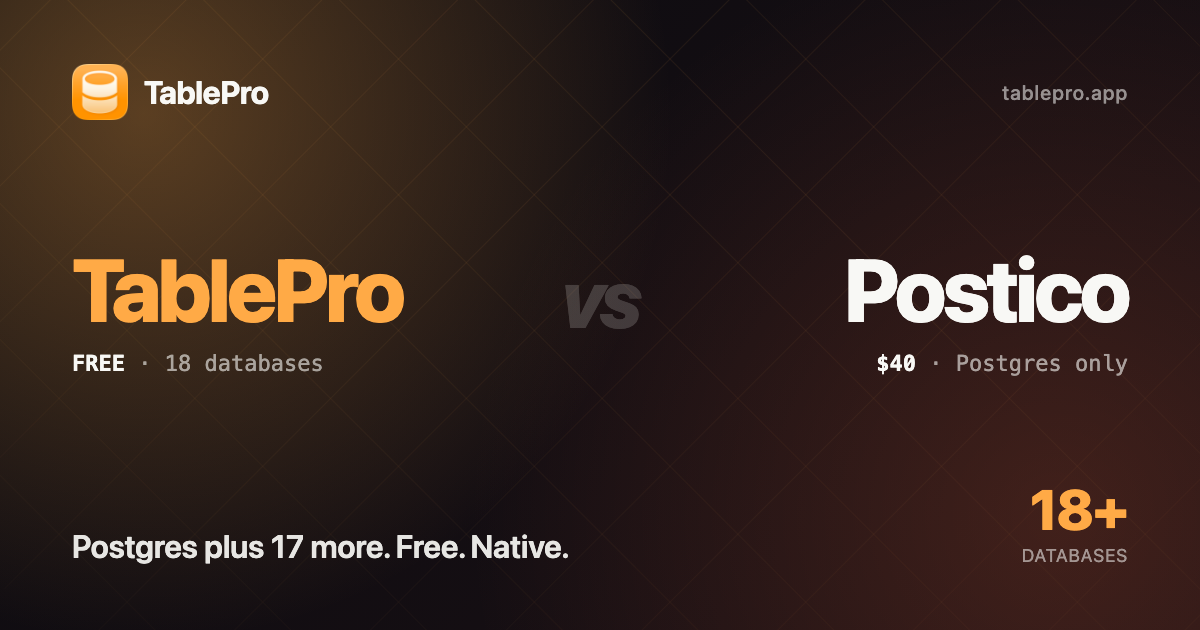
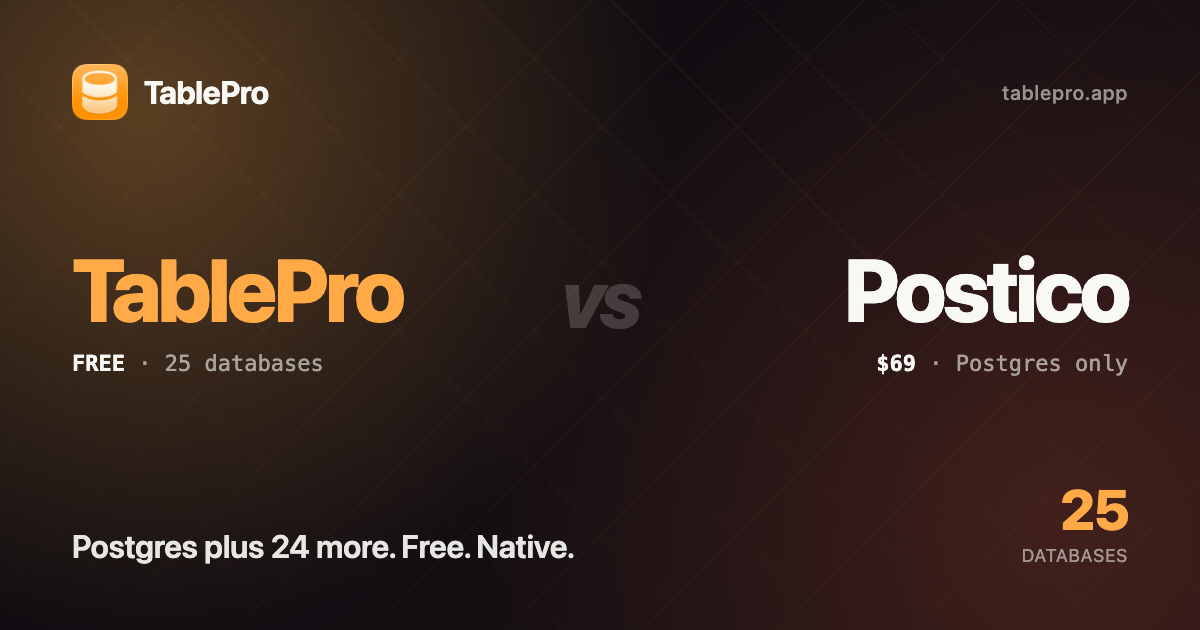
fix(compare): correct four stale counts and four wrong prices (#21)
Every comparison entry was audited against the vendor's own site, with the
JavaScript-rendered pricing pages driven through a real browser rather than
guessed at.

Counts left over from when TablePro shipped 18 databases. Postico promised
"Postgres plus 17 other databases" and named five engines "and 13 more";
HeidiSQL named five "plus 13 more". Both read as 18, on pages whose own
comparison table said 25 two rows below.

    postico.description   five named + 13  ->  + 20
    postico.verdict       Postgres + 17    ->  + 24
    postico.ogPunchline   Postgres + 17    ->  + 24
    heidisql              five named + 13  ->  + 20

Prices that contradicted their own entry. The OG card is generated from its own
fields, so it drifts silently from the page it advertises — and nobody sees an
OG image until it is already being shared.

    postico.ogCompetitorMetaHtml   $40   ->  $69   (entry said $69/$99 throughout)
    datagrip.ogCompetitorMetaHtml  $100  ->  $99   (entry said $99 throughout)

Prices now stale against the vendor, both read off the rendered page:

    datagrip  $9.90/mo        ->  $10.90/mo   jetbrains.com/datagrip/buy
    navicat   $1,299 perpetual -> $1,599      navicat.com/en/store/navicat-premium

Postico's $69 personal (3 devices) and $99 per device commercial were checked
against eggerapps.at and are correct as written. Beekeeper's $108/yr Indie is
correct: their page renders $9, $14 and $18 per month.
[…]

diff --git a/tests/Feature/Seo/StaleClaimsTest.php b/tests/Feature/Seo/StaleClaimsTest.php
@@ -219,3 +219,89 @@ it('serves a comparison page for every slug the route accepts, and vice versa', 
 
     expect($routed)->toBe($authored);
 });
+
+it('never implies a database count other than 25', function (): void {
+    /*
+     * Four entries carried counts from the era when TablePro shipped 18 —
+     * Postico promised "Postgres plus 17 other databases" and named five
+     * engines "and 13 more", HeidiSQL the same. Both read as 18, on pages whose
+     * own table said 25 two rows below.
+     *
+     * Relative phrasing is what rots: "plus N more" has to be re-derived every
+     * time the driver count moves, and nobody remembers to. This catches the
+     * ones that no longer add up.
+     */
+    $entries = json_decode(file_get_contents(base_path('resources/data/comparisons.json')), true);
+
+    $offenders = [];
+
+    foreach ($entries as $entry) {
+        array_walk_recursive($entry, function ($value) use (&$offenders, $entry): void {
+            if (! is_string($value)) {
+                return;
+            }
+
+            // "Postgres plus 24 other databases" / "... and 20 more"
+            if (! preg_match('/\b(?:plus|and)\s+(\d{1,3})\s+(?:other|more)\b/i', $value, $m)) {
+                return;
+            }
+
+            /*
+             * Only the engines named in the same sentence count. Postico's
+             * verdict reads "excellent for Postgres alone. TablePro covers the
+             * same ground for Postgres plus 24 other databases" — counting the
+             * whole string sees Postgres twice and makes 25 look like 26.
+             */
+            $before = substr($value, 0, strpos($value, $m[0]));
+            $sentence = preg_split('/(?<=[.!?])\s+/', $before);
+
+            $named = preg_match_all(
+                '/\b(PostgreSQL|Postgres|MySQL|MariaDB|MongoDB|Redis|SQLite|SQL Server|Redshift|CockroachDB|Greenplum|Snowflake|Cassandra|DuckDB|Oracle|ClickHouse)\b/i',
+                (string) end($sentence),
+            );
+
+            if ($named + (int) $m[1] !== 25) {
+                $offenders[] = "{$entry['slug']}: \"{$m[0]}\" after {$named} named engines = " . ($named + (int) $m[1]);
+            }
+        });
+    }
+
+    expect($offenders)->toBe([], "Database counts that do not total 25:\n  " . implode("\n  ", $offenders));
+});
+
+it('quotes one price per competitor claim, consistently within an entry', function (): void {
+    /*
+     * The OG card is generated from its own fields, so it drifts silently from
+     * the page it advertises: Postico's said $40 against $69/$99 in the entry,
+     * DataGrip's said $100 against $99. Nobody sees an OG image until it is
+     * already being shared.
+     */
+    $entries = json_decode(file_get_contents(base_path('resources/data/comparisons.json')), true);
+
+    foreach ($entries as $entry) {
+        if (! isset($entry['ogCompetitorMetaHtml'])) {
+            continue;
+        }
+
+        preg_match_all('/\$[\d,]+(?:\.\d{2})?/', $entry['ogCompetitorMetaHtml'], $onCard);
+
+        if ($onCard[0] === []) {
+            continue;
+        }
+
+        $inEntry = [];
+        array_walk_recursive($entry, function ($value) use (&$inEntry): void {
+            if (is_string($value)) {
+                preg_match_all('/\$[\d,]+(?:\.\d{2})?/', $value, $found);
+                $inEntry = array_merge($inEntry, $found[0]);
+            }
+        });
+
+        foreach ($onCard[0] as $price) {
+            expect(array_count_values($inEntry)[$price] ?? 0)->toBeGreaterThan(
+                1,
+                "{$entry['slug']}: the OG card quotes {$price}, which appears nowhere else in the entry",
+            );
+        }
+    }
+});
